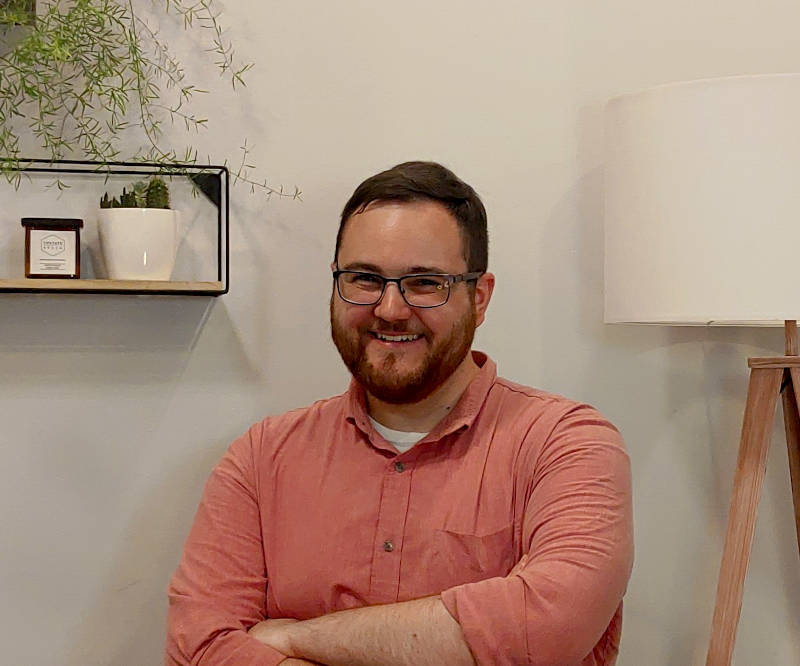
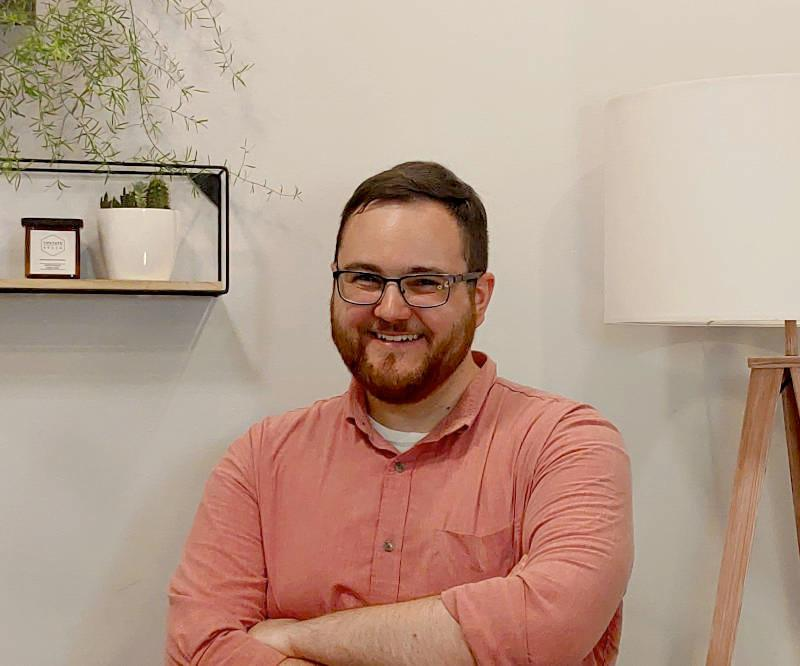
Add optional webp image source on homepage
The portrait is the heaviest part of the homepage (being the only image)
at around 50kb. This can be reduced a fair bit by offering a webp
version for modern browsers. This reduces the weight to just 30kb.

This also sets explicit width/height on the fallback img for good luck.

And since the picture element is styled slightly differently, we set
line-height to zero to remove phantom whitespace that showed up beneath
it, that the img did not have because of the flex properties.

diff --git a/pages/index.html b/pages/index.html
@@ -14,7 +14,12 @@
 				containers.
 			</p>
 		</div>
-		<img src="/_/portrait.jpg" alt="smiley alex">
+
+		<picture>
+			<source srcset="/_/portrait.webp" type="image/webp">
+			<source srcset="/_/portrait.jpg" type="image/jpeg">
+			<img src="/_/portrait.jpg" alt="A photo of Alex Blackie." width="348" height="290">
+		</picture>
 	</div>
 </div>
 
@@ -104,10 +109,11 @@ EOARTICLES
 		align-items: flex-end;
 		justify-content: space-between;
 	}
-	.homeHero img {
+	.homeHero picture {
 		flex-shrink: 0;
 		width: var(--home-sidebar-width);
 		height: auto;
+		line-height: 0;
 	}
 	.homeHero--body {
 		padding: var(--height-header) 2rem 1rem 0;
